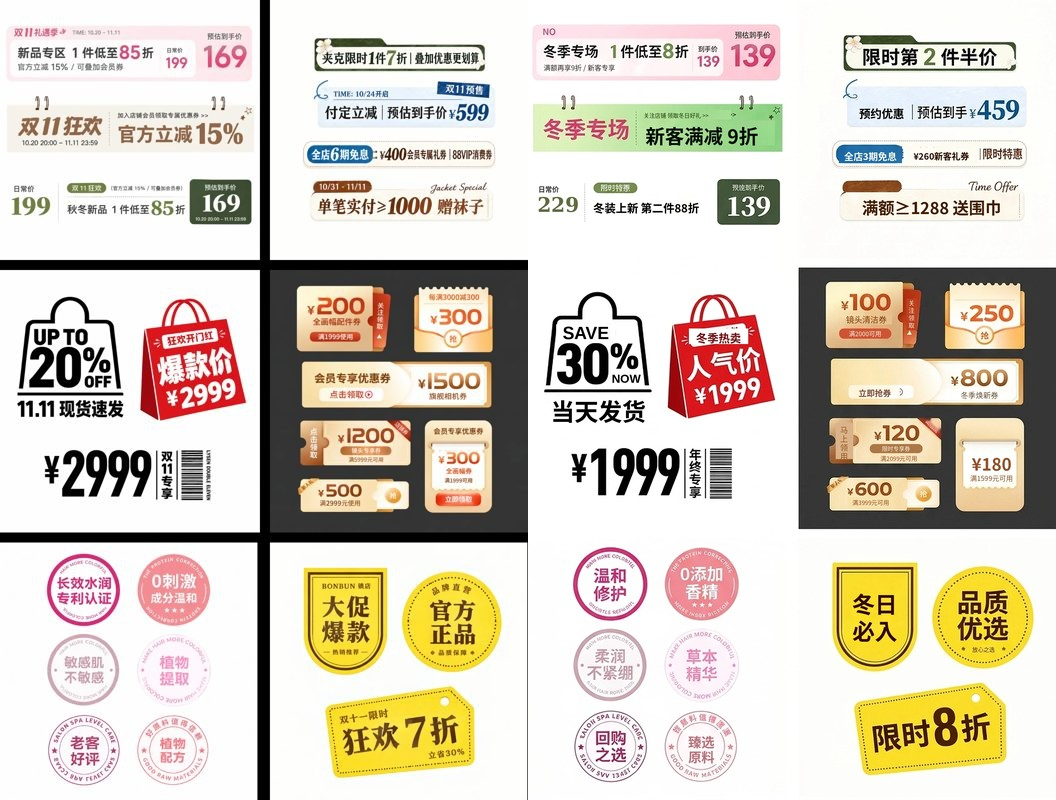
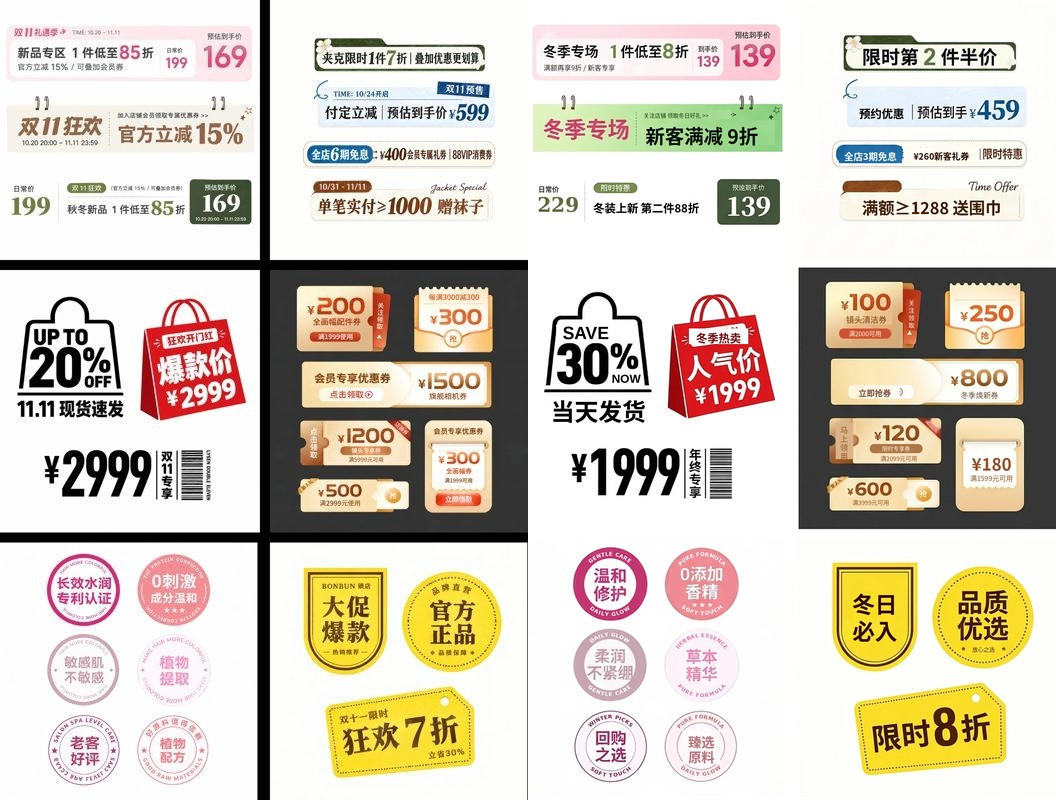
docs(#673): promo ex02 badge rim text replaced with own lines, stray NO removed (free, OCR-checked)

diff --git a/docs/design/673/batch/REPORT.md b/docs/design/673/batch/REPORT.md
@@ -44,7 +44,7 @@ Left as is: the CSV hits 200 / 300 / 1500 / 1200 / ¥300 (the gold's numbers; ou
 #16 promo cover, ppt p01, ppt p10, the stitch seams, and the photo-split slogan/top-note change.
 
 ## OCR check (free, local)
-tesseract was not installable (apt mirror down), so RapidOCR (chi_sim+eng models) was run on every changed page: ppt p01/p02/p08/p10, the cover and promo ex02. No garbled captions or coupon text remain. Known leftover: the tiny decorative circular rim text on the promo ex02 stamp badges (gold-style pseudo-English) is still unreadable; flag if design wants it cleared.
+tesseract was not installable (apt mirror down), so RapidOCR (chi_sim+eng models) was run on every changed page: ppt p01/p02/p08/p10, the cover and promo ex02. No garbled captions or coupon text remain. promo ex02 follow-up: all gold rim text on the six circular badges (SALON SPA LEVEL CARE, GOOD RAW MATERIALS, THE PROTEIN COLORFUL, MAKE HAIR MORE COLORFUL and the Chinese pseudo-text arc) was filled over with the ring colour and replaced with our own arc lines (GENTLE CARE / DAILY GLOW, PURE FORMULA / SOFT TOUCH, DAILY GLOW / GENTLE CARE, HERBAL ESSENCE / PURE FORMULA, WINTER PICKS / SOFT TOUCH, PURE FORMULA / DAILY GLOW; DejaVu Sans Bold). The stray NO at top left of the first pink coupon was removed. RapidOCR re-run: no gold rim phrase (SALON, RAW, MATERIALS, PROTEIN, COLORFUL, HAIR) is detected; only our words remain.
 
 ## Next round (to be quoted; no budget left in C)
 1. promo ex01: pulled; needs new models and products (style-ref route).
